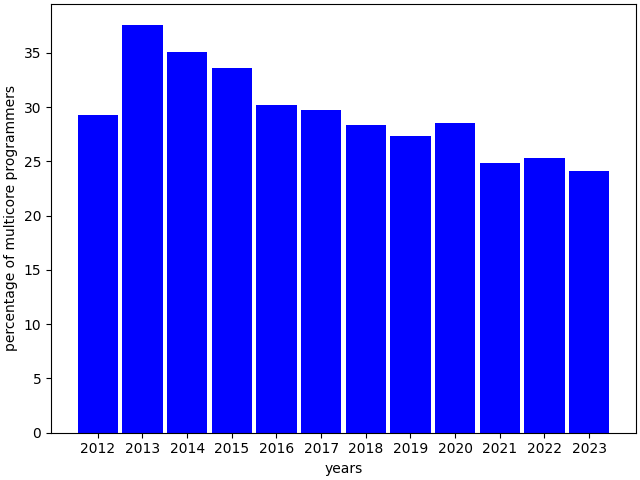
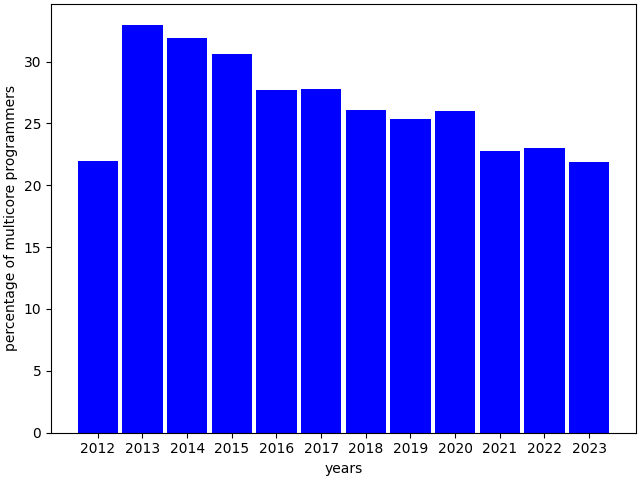
last-check aangepast

diff --git a/src/webapplication/templates/bestandswijziging.html b/src/webapplication/templates/bestandswijziging.html
@@ -1,0 +1,70 @@
+{% extends "master.html" %}
+
+{% block content %}
+
+<div class="content" style="display: flex;flex-direction: row;flex-wrap: wrap;align-items: stretch; margin: 5px">
+    <div style="margin: 5px">
+        <div><b>difftext</b></div>
+        {% if difftext %}
+        <div class="box">
+            <pre>{{ difftext }}</pre>
+        </div>
+        <div>
+            <b>simple search</b><br>
+            <pre>{{ difftext_simple_search }}</pre>
+        </div>
+
+
+            <div>
+                <b>old lines</b><br>
+                {{ diff_ol }}
+
+            </div>
+            <div>
+                <b>new lines</b><br>
+                {{ diff_nl }}
+            </div>
+        <div>
+            <b>keywords</b><br>
+            {% for kw in keywords %}
+            <div>{{kw}}</div>
+            {% endfor %}
+        </div>
+
+
+        {% endif %}
+
+    </div>
+
+
+
+    <div style="margin: 5px">
+        {% if tekstvooraf %}
+        <div class="box">
+            <pre>{{ tekstvooraf }}</pre>
+        </div>
+        {% else %}
+        <div>
+            <pre>nieuw bestand</pre>
+        </div>
+        {% endif %}
+    </div>
+    <div style="margin: 5px">
+        {% if tekstachteraf %}
+        <div class="box">
+            <pre>{{ tekstachteraf }}</pre>
+        </div>
+        {% else %}
+        <div>
+            <pre>file verwijderd of verplaatst</pre>
+        </div>
+        {% endif %}
+    </div>
+
+</div>
+
+<div class="content" style="display: flex;flex-direction: row;flex-wrap: wrap;align-items: stretch; margin: 5px">
+
+
+</div>
+{% endblock %}

diff --git a/src/plots/plots_elixir/projects_against_date.py b/src/plots/plots_elixir/projects_against_date.py
@@ -210,7 +210,8 @@ def create_diagram_projects_nr_authors():
 
 
 def create_diagram_primitives_cumulative():
-    ys = [33.1, 16.4, 11.6, 9.2, 7.7, 5.7, 5.5, 3.6, 3.4, 1.9, 0.9, 0.7, 0.3, 0.0]
+    ys = [33.7, 15.6, 12.1, 9.6, 7.8, 6.1, 4.9, 3.3, 3.3, 1.8, 1, 0.6, 0.2, 0]
+
     xs = list(range(1, 15))
     sumyx = []
     sum = 0
@@ -225,9 +226,12 @@ def create_diagram_primitives_cumulative():
     ax1.set_ylabel('percentage of multicore programmers')
     plt.show()
 
+
 def create_diagram_years():
     xs = list(range(2012, 2024))
-    ys = [29.3, 37.6, 35.1, 33.6, 30.2, 29.7, 28.3, 27.3, 28.5, 24.8, 25.3, 24.1]
+
+    ys = [22, 33, 31.9, 30.6, 27.7, 27.8, 26.1, 25.4, 26, 22.8, 23, 21.9]
+
     fig, ax1 = plt.subplots(layout='constrained')
     ax1.bar(xs, ys, color='b', width=0.9)
     ax1.set_xticks(xs)
@@ -235,6 +239,7 @@ def create_diagram_years():
     ax1.set_xlabel('years')
     ax1.set_ylabel('percentage of multicore programmers')
     plt.show()
+
 
 def create_month_list(start_year, start_month, end_year, end_month):
     month_list = []
@@ -249,6 +254,7 @@ def create_month_list(start_year, start_month, end_year, end_month):
             for month in range(1, 13):
                 month_list.append(str(year) + '-' + ('0' if month < 10 else '') + str(month))
     return month_list
+
 
 def create_diagram_firstcommits():
     sql = """
@@ -287,7 +293,48 @@ def create_diagram_firstcommits():
     ax1.set_ylabel('First commits', color='b')
     plt.show()
 
+
+def create_diagram_first_last_commits():
+    sql = """
+        SELECT date_trunc('month', max) as txn_monthmin, count(*)
+        FROM {sch}.first_last_commits
+        GROUP BY txn_monthmin order by txn_monthmin
+        """.format(sch=pg_db_schema)
+
+    params_for_db = configurator.get_database_configuration()
+    connection = PostgresqlDatabase('multicore', user=params_for_db.get('user'), password=params_for_db.get('password'),
+                                    host='localhost', port=params_for_db.get('port'))
+    cursor = connection.execute_sql(sql)
+
+    line_data_1 = []
+
+    for (date, counter) in cursor.fetchall():
+        year = date.strftime("%Y")
+        month = date.strftime("%m")
+        line_data_1.append((year + '-' + month, counter))
+
+    line_data_1 = dict(line_data_1)
+    x_ax_labels = []
+    line1_y_values = []
+    months = create_month_list(2012, 1, 2023, 6)
+    i = 0
+    for m in months:
+        l1data = line_data_1.get(m)
+        x_ax_labels.append(m)  # alle x as labels
+        line1_y_values.append(l1data)
+        i += 1
+
+    fig, ax1 = plt.subplots(layout='constrained')
+    ax1.scatter(x_ax_labels, line1_y_values, color='r')
+    ax1.set_xticks(np.arange(0, len(x_ax_labels), 12))
+    ax1.set_xticklabels(x_ax_labels[::12], rotation=45)
+    ax1.set_xlabel('Months')
+    ax1.set_ylabel('Last commits of projects count', color='r')
+    plt.show()
+
+
 if __name__ == '__main__':
     # create_diagram_projects_commits_authors()
     # create_diagram_projects_nr_authors()
-    create_diagram_firstcommits()
+    #create_diagram_primitives_cumulative()
+    create_diagram_first_last_commits()

diff --git a/src/elixir_parsing/last_check.py b/src/elixir_parsing/last_check.py
@@ -154,24 +154,32 @@ def get_data_withline_numbers(parsed_to_lexeme_list, zoektermenlijst):
         if zoekterm[0].isupper():  # if first letter is uppercase, then it is a module name
             filtered_list = list(filter(lambda x: x[1][0] == regelnummer and x[1][2] == ":alias" and x[1][3] == ":" + zoekterm,
                                         parsed_to_lexeme_list))
+
             for (list_nr, (ln_nr, col_nr, type, term)) in filtered_list:   # could be more than 1 zoekterm on a line
-                if parsed_to_lexeme_list[list_nr+1][1][2] == ":.":
+                if parsed_to_lexeme_list[list_nr-1][1][2] == ":.":   #  if the previous token is a dot, then it is a function name
+                    continue
+                elif parsed_to_lexeme_list[list_nr+1][1][2] == ":.":
                     zoekterm_oke = True
                     break
                 else:
-                    filtered_list = list(filter(lambda x: x[1][0] == regelnummer and x[1][1] < col_nr and x[1][2] == ":identifier" and x[1][3] == ":use",
+                    list_with_use = list(filter(lambda x: x[1][0] == regelnummer and x[1][1] < col_nr and x[1][2] == ":identifier" and x[1][3] == ":use",
                                             parsed_to_lexeme_list))
-                    if len(filtered_list) > 0:
+                    if len(list_with_use) > 0:
                         zoekterm_oke = True
                         break
-
         else:  # if first letter not uppercase, then it is a function name
             filtered_list = list(filter(
                 lambda x: x[1][0] == regelnummer and (x[1][2] in [":paren_identifier", ":do_identifier", ":identifier"]) and
                           x[1][3] == ":" + zoekterm, parsed_to_lexeme_list))
-
-        if zoekterm_oke is False and len(filtered_list) > 0:
-            zoekterm_oke = True
+            for (list_nr, (ln_nr, col_nr, type, term)) in filtered_list:
+                if parsed_to_lexeme_list[list_nr-1][1][3] == ":def" or parsed_to_lexeme_list[list_nr-1][1][3] == ":defp":
+                    break
+                if parsed_to_lexeme_list[list_nr-2][1][3] == ":Kernel" and parsed_to_lexeme_list[list_nr-1][1][2] == ":.":   #  if the previous token is a dot, then it is a function name
+                    zoekterm_oke = True
+                    break
+                elif parsed_to_lexeme_list[list_nr-1][1][2] != ":.":
+                    zoekterm_oke = True
+                    break
 
         if zoekterm_oke:
             print(f"{Fore.GREEN}zoekterm gevonden:" + zoekterm + ", regelnummer:" + str(
@@ -186,7 +194,7 @@ def get_data_withline_numbers(parsed_to_lexeme_list, zoektermenlijst):
 
 def update_bestandswijziging_zoekterm_regelnummer(bzr_id, is_valid):
     update_zoekterm_regelnummer_sql = """
-update {sch}.bestandswijziging_zoekterm_regelnummer set is_valid_2 = {is_valid}  where id = {id}
+update {sch}.bestandswijziging_zoekterm_regelnummer set is_valid_3 = {is_valid}  where id = {id}
 """.format(sch=schema, id=bzr_id, is_valid=is_valid)
     get_connection().execute_sql(update_zoekterm_regelnummer_sql)
 

diff --git a/src/webapplication/app.py b/src/webapplication/app.py
@@ -76,6 +76,39 @@ def form_commits_for_projects(select_id):
         print(e)
 
 
+@app.route("/showgithub/bestandswijziging/<bw_wijziging>")
+def bestandswijziging(bw_wijziging):
+    try:
+        sql = " select bw.idcommit, bw.difftext, bw.tekstvooraf, bw.tekstachteraf, bw_z_r.zoekterm, bw_z_r.regelnummer, bw_z_r.regelsoort, bw_z_r.is_valid_3 from {sch}.bestandswijziging as bw " \
+              " left join {sch}.bestandswijziging_zoekterm_regelnummer bw_z_r on bw.id = bw_z_r.idbestandswijziging " \
+              " where  bw.id = {id} order by bw_z_r.regelnummer".format(sch=pg_db_schema,id=bw_wijziging)
+        cursor = pg_db.execute_sql(sql)
+
+        difftext_first = ''
+        tekstvooraf_first = ''
+        tekstachteraf_first = ''
+        diff_ol = ''
+        diff_nl = ''
+        is_first = True
+        keywords: list[str] = []
+        difftext_simple_search = ''
+        for (idcommit, difftext, tekstvooraf, tekstachteraf, zoekterm, regelnummer, regelsoort, is_valid) in cursor.fetchall():
+            if is_first:
+                difftext_first = difftext
+                difftext_simple_search = simple_search(difftext)
+                nl, ol = readDiff.check_diff_text(difftext, zoektermen)
+                diff_ol = create_string(ol)
+                diff_nl = create_string(nl)
+                tekstvooraf_first = add_line_numbers(tekstvooraf)
+                tekstachteraf_first = add_line_numbers(tekstachteraf)
+                is_first = False
+
+            keywords.append("{rn} {zt} {rs} {v}".format(zt=zoekterm, rn=regelnummer, rs= regelsoort, v=is_valid))
+        return render_template("bestandswijziging.html", difftext_simple_search=difftext_simple_search, diff_ol=diff_ol, diff_nl=diff_nl,difftext=difftext_first, tekstvooraf=tekstvooraf_first, tekstachteraf=tekstachteraf_first, keywords=keywords)
+    except Exception as e:
+        print(e)
+
+
 @app.route("/showgithub/<select_id>/change/<false_positive>/")
 def form_changes_for_projects(select_id, false_positive):
     try:
